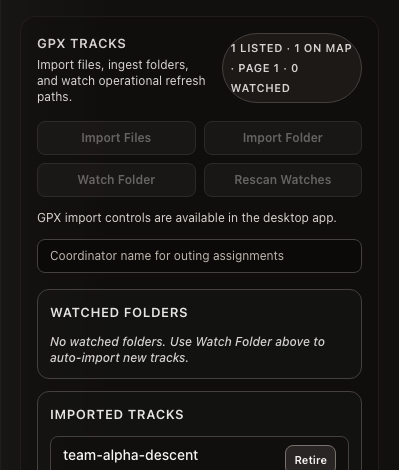
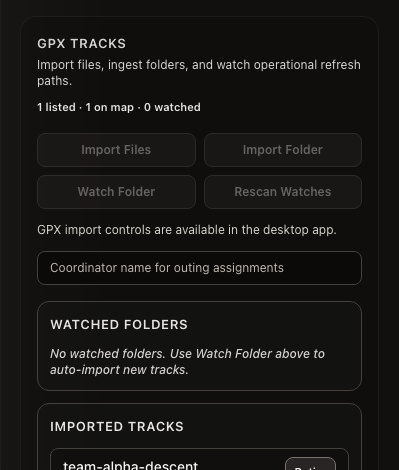
docs(manual): GPX panel wording and screenshot match the shipped DON-319 panel [DON-319]
Each track says On map, or Hidden on map with the reason and Show on map;
a failed save says On map, but not saved with Save again. The summary is
a plain line (listed · on map, hidden in Layers). Recaptured tools-tab.

diff --git a/public/manual/index.html b/public/manual/index.html
@@ -1052,8 +1052,9 @@
           <h3>GPX tracks</h3>
           <ul>
             <li><strong>Import Files</strong> and <strong>Import Folder</strong> add tracks. <strong>Watch Folder</strong> imports new files as they appear, and <strong>Rescan Watches</strong> checks again. These need the desktop app.</li>
-            <li>A newly imported track is shown on the map straight away. The panel summary says how many tracks are <strong>listed</strong> and how many are <strong>on map</strong> (for example <em>5 listed · 5 on map</em>).</li>
-            <li>If a track is switched off in the <a href="#layers">Layers tab</a>, its row says <strong>Hidden on map</strong> with a <strong>Show on map</strong> button. A listed track is not necessarily drawn: check this line if you cannot find a track.</li>
+            <li>A newly imported track is shown on the map straight away. A track you hid yourself stays hidden. The panel summary says how many tracks are listed and how many are on the map, for example <em>5 listed · 4 on map, 1 hidden in Layers</em>.</li>
+            <li>Each track's row says <strong>On map</strong>, or <strong>Hidden on map</strong> with the reason (<em>GPX Tracks is off in Layers</em> or <em>this track is off in Layers</em>) and a <strong>Show on map</strong> button. A listed track is not necessarily drawn: check this line if you cannot find a track.</li>
+            <li>If showing a track could not be saved, the row says <strong>On map, but not saved (may be hidden after a restart)</strong> with a <strong>Save again</strong> button.</li>
             <li>Each imported track has its own colour. <strong>Retire</strong> takes it off the map but keeps the record; the retired track stays in the mission history and Replay.</li>
             <li>A retired track cannot be brought back by importing the same file again: SAR Tracker says the track was retired and asks you to copy or rename the file, then import the copy, which appears as a new track.</li>
             <li>A file you retire stays in the watched folder but is no longer imported. If it changes afterwards, SAR Tracker tells you once; to import the new version, copy or rename it.</li>
